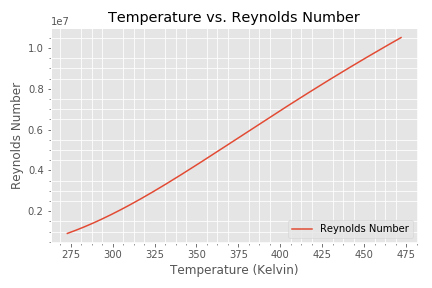
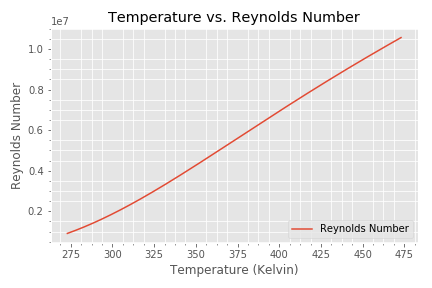
Tutorial

diff --git a/AguaClara_Interactive_Tutorial_edit.md b/AguaClara_Interactive_Tutorial_edit.md
@@ -134,16 +134,16 @@ from aide_design.play import*
 
 def reynoldsNumber(v,r,nu):
   return (2*v*r / nu)
-  
-temp_array=np.arange(273,473)
+
+temp_array=np.arange(201)
 pipeRadius=.2*u.m
 flowRate=4*u.m ** 2 /u.s
 viscosity_k_array = np.array([])
 for n in temp_array:
-  viscosity_k=pc.viscosity_kinematic(n*u.kelvin)
+  viscosity_k=pc.viscosity_kinematic((n+273)*u.kelvin)
   viscosity_k_array = np.append(viscosity_k_array, viscosity_k)
 
-plt.plot(temp_array,reynoldsNumber(flowRate,pipeRadius,viscosity_k_array),'-',label = "Reynolds Number")
+plt.plot(temp_array+273,reynoldsNumber(flowRate,pipeRadius,viscosity_k_array),'-',label = "Reynolds Number")
 plt.xlabel('Temperature (Kelvin)')
 plt.ylabel('Reynolds Number')
 plt.title('Temperature vs. Reynolds Number')
